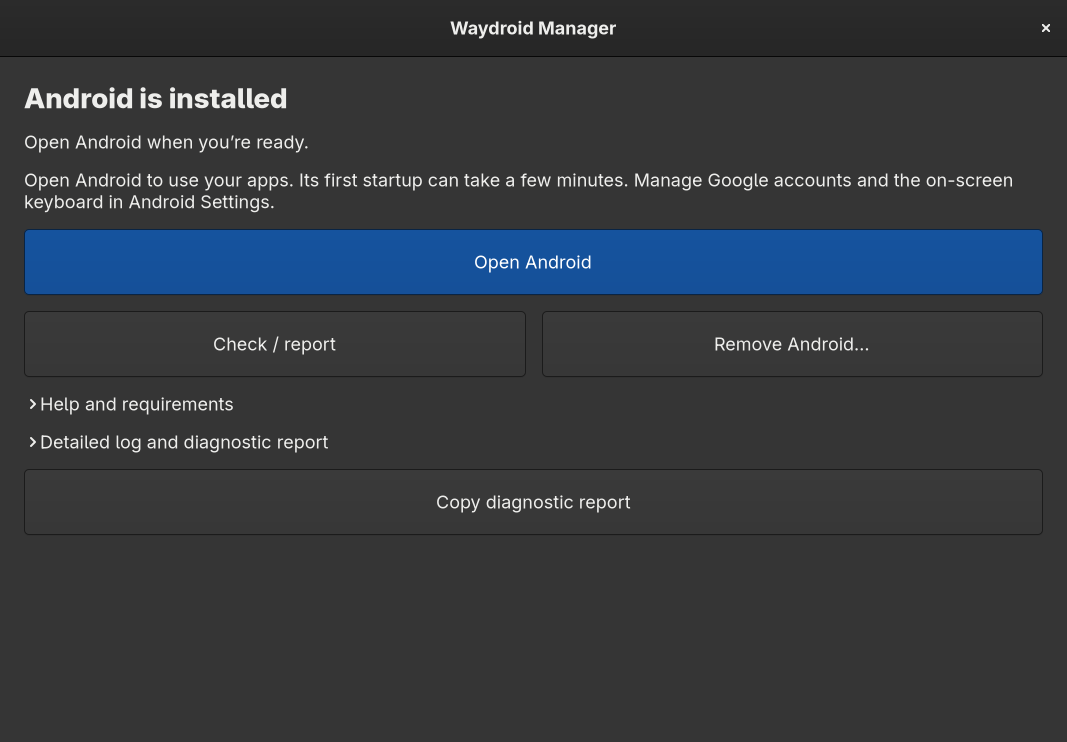
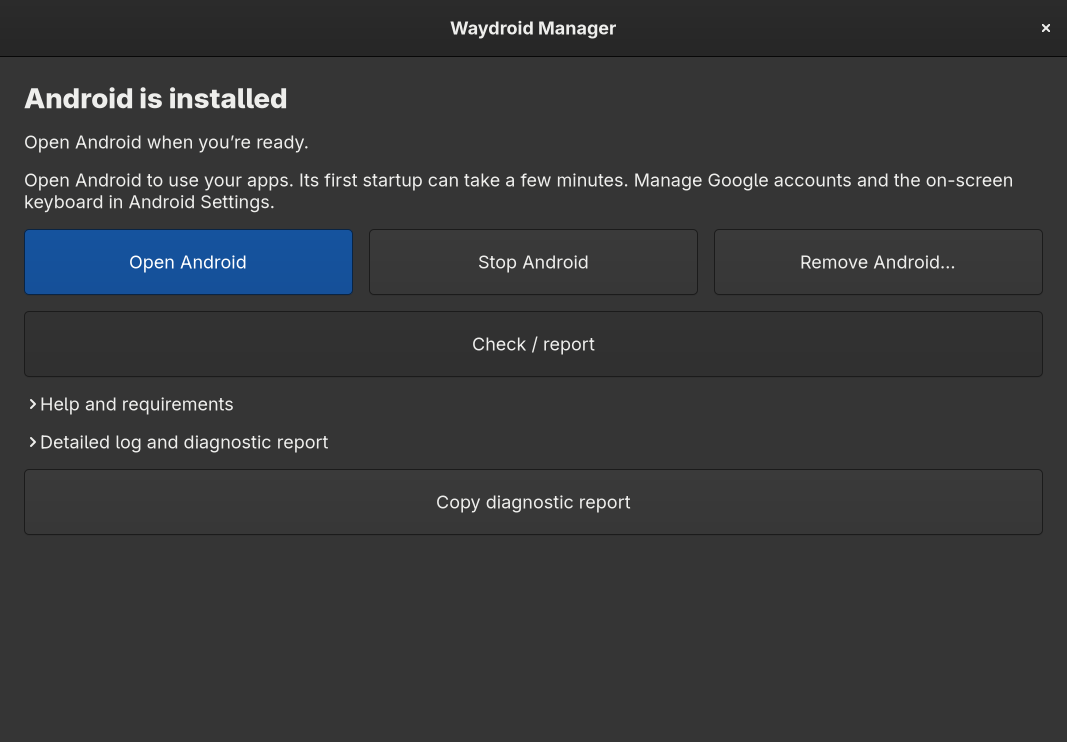
Group Android open stop and remove controls in one row

diff --git a/experiments/waydroid/setup/gui.py b/experiments/waydroid/setup/gui.py
@@ -225,11 +225,16 @@ class SetupApp(Gtk.Application):
         self.choice.set_visible(not present)
         self.choice.set_sensitive(not self.paused and not self.busy)
         self.choice_note.set_visible(not present)
-        setup, launch, _, remove, stop = self.buttons
+        setup, launch, report_button, remove, stop = self.buttons
         stop.set_sensitive(present and packaged and not self.busy)
         setup.set_visible(not ready)
-        self.actions.remove(launch)
-        self.actions.attach(launch, 0 if ready else 1, 0, 2 if ready else 1, 1)
+        for button in self.buttons:
+            self.actions.remove(button)
+        self.actions.attach(setup, 0, 0, 3, 1)
+        action_row = 0 if ready else 1
+        for column, button in enumerate((launch, stop, remove)):
+            self.actions.attach(button, column, action_row, 1, 1)
+        self.actions.attach(report_button, 0, action_row + 1, 3, 1)
         setup.set_label('Resume setup' if self.paused else 'Retry setup' if present else 'Set up Android')
         setup.set_sensitive(kernel and not self.busy)
         launch.set_sensitive(present and packaged and not self.busy)
